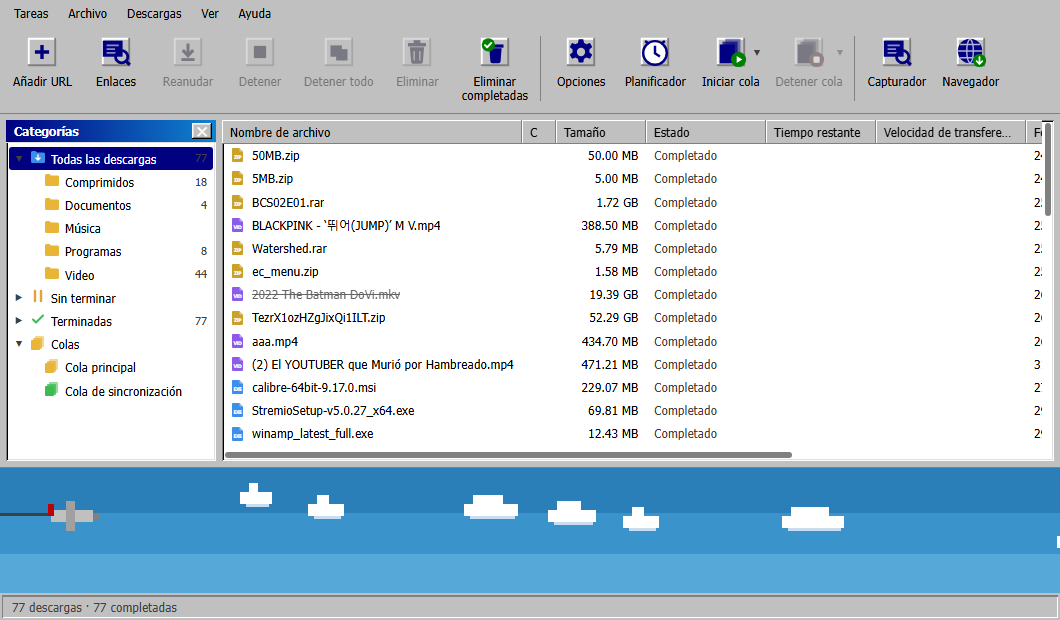
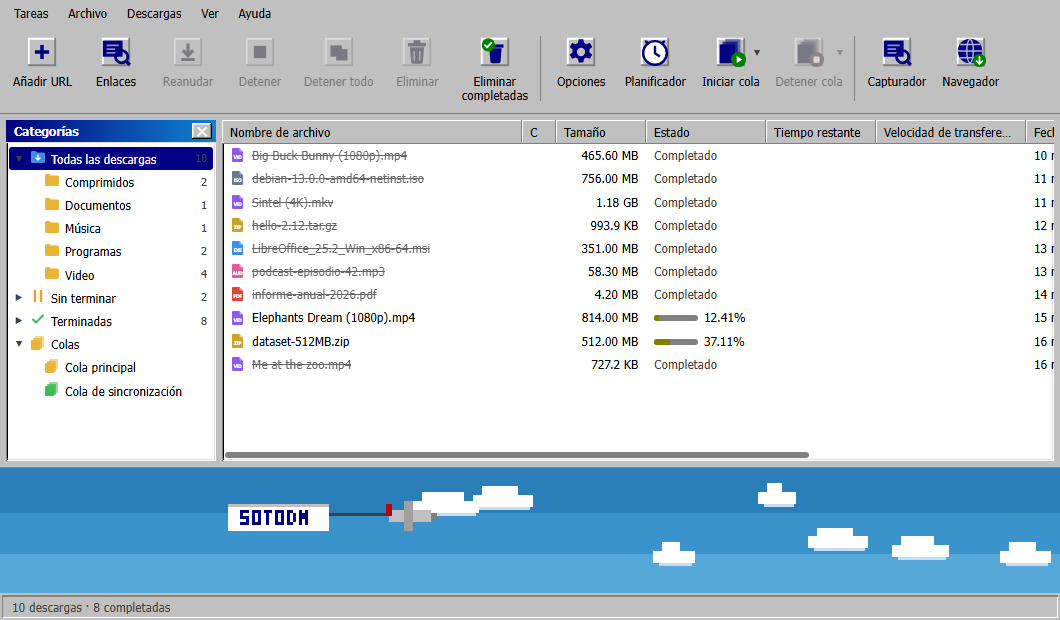
SotoDM 0.8.0: nuevo nombre en toda la vitrina, novedades e imágenes nuevas
- VeloxDM pasa a llamarse SotoDM en el texto, el banner y las capturas.
- Novedades de las versiones 0.8.0 (MEGA con carpetas, megaup.net, abrir en el
  navegador, claves cifradas) y 0.7.0 (debrid, reglas, estadísticas, ventana flotante,
  modo portable y gamer).
- Capturas rehechas con una lista de demostración (archivos públicos de prueba).

diff --git a/README.md b/README.md
@@ -1,15 +1,15 @@
-<p align="center"><img src="images/banner.png" alt="VeloxDM" width="100%"></p>
+<p align="center"><img src="images/banner.png" alt="SotoDM" width="100%"></p>
 
 <p align="center">Gestor de descargas con segmentación dinámica, colas, planificador, video, BitTorrent y extensión de navegador.</p>
 
-<p align="center"><a href="https://github.com/Softsoto/VeloxDM/releases/latest"><b>Descargar</b></a> · <a href="https://sotomontes.com/#veloxdm">Ver en sotomontes.com</a> · <a href="#cómo-se-usa">Cómo se usa</a> · <a href="#temas">Temas</a> · <a href="#cómo-funciona-por-dentro">Cómo funciona</a> · <a href="#novedades">Novedades</a></p>
+<p align="center"><a href="https://github.com/Softsoto/SotoDM/releases/latest"><b>Descargar</b></a> · <a href="https://sotomontes.com/#veloxdm">Ver en sotomontes.com</a> · <a href="#cómo-se-usa">Cómo se usa</a> · <a href="#temas">Temas</a> · <a href="#cómo-funciona-por-dentro">Cómo funciona</a> · <a href="#novedades">Novedades</a></p>
 
 | Ficha técnica | |
 |---|---|
 | **Autor** | Sebastian Sotomontes |
 | **Tipo** | Gestor de descargas |
 | **Plataforma** | Windows 10 y 11 (64 bits) |
-| **Versión** | 0.6.0 |
+| **Versión** | 0.8.0 |
 | **Estado** | Funcional |
 | **Stack** | C# · .NET 10 · WebView2 |
 | **Precio** | Gratis |
@@ -19,21 +19,36 @@
 
 ## Qué es
 
-VeloxDM es un gestor de descargas para Windows pensado para bajar archivos grandes sin perder el progreso. Divide cada descarga en varias conexiones que trabajan en paralelo y, cuando una termina, ayuda a la más lenta para que el total baje lo más rápido posible. Reanuda después de un corte de internet, un reinicio o un apagón, sin empezar de cero.
+SotoDM es un gestor de descargas para Windows pensado para bajar archivos grandes sin perder el progreso. Divide cada descarga en varias conexiones que trabajan en paralelo y, cuando una termina, ayuda a la más lenta para que el total baje lo más rápido posible. Reanuda después de un corte de internet, un reinicio o un apagón, sin empezar de cero.
 
 Además de archivos normales por **HTTP, HTTPS y FTP**, baja **vídeo** de YouTube y más de mil sitios (con la calidad que elijas), **torrents**, y **paquetes de enlaces** de sitios de alojamiento. Se integra con tu navegador mediante una extensión, así que las descargas se capturan solas —con su sesión, cookies y referer— sin que tengas que copiar nada a mano.
 
-<p align="center"><img src="images/captura.jpg" alt="Captura de VeloxDM" width="100%"></p>
+<p align="center"><img src="images/captura.jpg" alt="Captura de SotoDM" width="100%"></p>
 
 ## Novedades
 
+**Versión 0.8.0**
+
+- **MEGA completo**: archivos y **carpetas** públicas (cada subcarpeta entra como su propio paquete), descarga que se **reanuda** tras un corte y **comprobación de integridad** antes de guardar el archivo.
+- **megaup.net**: lee carpetas y subcarpetas con sus nombres y tamaños reales, y respeta la espera del sitio antes de descargar.
+- **Abrir en el navegador** desde el capturador de enlaces (clic derecho), también para varios enlaces a la vez.
+- **Claves y contraseñas cifradas** con la protección de Windows: cuenta debrid, inicios de sesión de sitios y proxy.
+- Si un sitio solo deja ver un vídeo en su reproductor, SotoDM lo dice con claridad en lugar de reintentar sin fin.
+
+**Versión 0.7.0**
+
+- **Nuevo nombre: SotoDM.** Al actualizar, tus descargas, ajustes y temas se trasladan solos.
+- **Servicios debrid** (Real-Debrid y AllDebrid): con tu cuenta, los enlaces de sitios de alojamiento se desbloquean sin esperas ni captchas.
+- **Reglas de automatización**: cuando una descarga termina, la mueve, la renombra, la descomprime, abre un programa o te avisa, según el sitio, el tipo o el tamaño.
+- **Panel de estadísticas** con lo descargado hoy, en el mes, en los últimos 14 días, por sitio y por categoría.
+- **Ventana flotante «Soltar aquí»**, **modo portable** (desde una USB, sin instalar) y **modo gamer**, que baja la velocidad mientras juegas o ves algo a pantalla completa.
+- Los temas se pueden **exportar e importar** como un archivo para compartirlos.
+
 **Versión 0.6.0**
 
-- **Diez temas visuales**, cada uno con sus colores, sus iconos de barra y una escena animada en la franja inferior: Clásico, Rock, Años 90, Retro, Synthwave, Sakura, Cyberpunk y tres estilos Rejilla (azul, ámbar y violeta). Los tienes todos más abajo, en [Temas](#temas).
-- **Creador de temas**: un editor para hacer el tuyo propio —paleta de colores, tipo de letra, tus propias imágenes como iconos y una imagen o escena de fondo— con vista previa en vivo.
-- **MediaFire**: ahora recorre las subcarpetas; cada una entra como su propio paquete.
-- Los enlaces de carpeta y las direcciones escritas sin `https://` se reconocen y abren el capturador de enlaces.
-- **Guía de la extensión** del navegador al terminar de instalar (Edge, Chrome y Brave).
+- **Diez temas visuales**, cada uno con sus colores, sus iconos de barra y una escena animada en la franja inferior. Los tienes todos más abajo, en [Temas](#temas).
+- **Creador de temas** con vista previa en vivo: paleta, letra, tus propias imágenes como iconos y una imagen o escena de fondo.
+- **MediaFire** recorre las subcarpetas, y las direcciones escritas sin `https://` se reconocen.
 
 **Antes**
 
@@ -44,7 +59,7 @@ Además de archivos normales por **HTTP, HTTPS y FTP**, baja **vídeo** de YouTu
 
 ## Cómo se usa
 
-1. Instala VeloxDM y añade la extensión a tu navegador. Desde ese momento las descargas se capturan solas, con su sesión, cookies y referer.
+1. Instala SotoDM y añade la extensión a tu navegador. Desde ese momento las descargas se capturan solas, con su sesión, cookies y referer.
 2. Para bajar algo a mano, pulsa **Añadir URL**, pega el enlace y elige carpeta y categoría. En los vídeos eliges también la calidad.
 3. Sigue el avance en la ventana principal. Al abrir una descarga ves cómo progresa cada conexión y puedes pausarla o cambiar su velocidad.
 4. Agrupa las descargas en **colas** y abre el **planificador** para decidir qué días y a qué horas corren, y qué hacer al terminar.
@@ -61,7 +76,7 @@ Además de archivos normales por **HTTP, HTTPS y FTP**, baja **vídeo** de YouTu
 
 ## Temas
 
-VeloxDM trae diez estilos. Cada uno no solo cambia los colores: también cambia los **iconos de la barra de herramientas** y añade una **escena animada en pixel art** en la parte de abajo de la ventana. El estilo claro u oscuro de Windows se sigue respetando salvo donde el tema fija sus propios colores. Se eligen en **Opciones → Apariencia → Estilo**.
+SotoDM trae diez estilos. Cada uno no solo cambia los colores: también cambia los **iconos de la barra de herramientas** y añade una **escena animada en pixel art** en la parte de abajo de la ventana. El estilo claro u oscuro de Windows se sigue respetando salvo donde el tema fija sus propios colores. Se eligen en **Opciones → Apariencia → Estilo**.
 
 <table>
 <tr>
@@ -109,7 +124,7 @@ VeloxDM trae diez estilos. Cada uno no solo cambia los colores: también cambia 
 - Reanuda tras cortes de internet, reinicios o apagones.
 - Hasta 32 conexiones por archivo con segmentación dinámica.
 - Los archivos por partes se descomprimen solos al terminar, probando tu lista de contraseñas.
-- Si un sitio pide una verificación, VeloxDM abre la página para que la resuelvas tú; nada se salta.
+- Si un sitio pide una verificación, SotoDM abre la página para que la resuelvas tú; nada se salta.
 - La apariencia es tuya: diez temas de serie y un creador para diseñar los que quieras, sin tocar código.
 - Línea de comandos para usarlo desde scripts.
 
@@ -121,7 +136,7 @@ VeloxDM trae diez estilos. Cada uno no solo cambia los colores: también cambia 
 flowchart LR
   EXT["Extensión MV3<br/>Chrome · Edge · Brave"] -->|"native messaging"| NH["NativeHost"]
   NH -->|"tubería con nombre"| APP
-  subgraph APP["VeloxDM.exe"]
+  subgraph APP["SotoDM.exe"]
     UI["Ventanas WinForms + WebView2<br/>www/"] <--> DM["DownloadManager<br/>colas · planificador · límites"]
     DM --> HTTP["Downloader<br/>HTTP/HTTPS segmentado"]
     DM --> FTP["FtpDownloader"]
@@ -136,22 +151,22 @@ flowchart LR
 
 | Ruta | Contenido |
 |---|---|
-| `src/VeloxDM/Core/Downloader.cs` | Motor HTTP(S): segmentación dinámica, archivo temporal disperso, reanudación |
-| `src/VeloxDM/Core/FtpDownloader.cs` | FTP con la misma segmentación (REST) |
-| `src/VeloxDM/Core/HlsDownloader.cs` | HLS: variantes, segmentos en paralelo, AES-128, remux a MP4 |
-| `src/VeloxDM/Core/YtDlp.cs` | Motor yt-dlp (sondeo de calidades, progreso, unión con ffmpeg) |
-| `src/VeloxDM/Core/TorrentDownloader.cs` | BitTorrent (MonoTorrent), límites compartidos con el resto |
-| `src/VeloxDM/Core/DownloadManager.cs` | Lista, colas, planificador, velocidad, acciones al terminar |
-| `src/VeloxDM/Core/SiteGrabber.cs` | Capturador de sitios |
-| `src/VeloxDM/Core/RemoteServer.cs` | Control remoto HTTP en la red local |
-| `src/VeloxDM/Core/LinkGrabber.cs` | Capturador de enlaces: análisis de texto y páginas, comprobación, paquetes |
-| `src/VeloxDM/Core/Hosters.cs`, `FilePlatforms.cs` | Complementos de sitios y motores de plataformas compartidas |
-| `src/VeloxDM/Core/Packages.cs` | Fin de paquete: descompresión, contraseñas y aviso |
-| `src/VeloxDM/Core/Themes.cs` | Temas de usuario: paleta, iconos y fondo propios |
-| `src/VeloxDM/Core/ClickNLoad.cs` | Receptor Click'n'Load |
-| `src/VeloxDM/Core/NativeHost.cs`, `Ipc.cs` | Host de native messaging y tubería con la app |
-| `src/VeloxDM/Ui/`, `src/VeloxDM/www/` | Ventanas WinForms + WebView2 y su interfaz HTML/JS (temas, iconos y escenas incluidos) |
-| `installer/VeloxDM.iss` | Instalador Inno Setup (por usuario, sin administrador) |
+| `src/SotoDM/Core/Downloader.cs` | Motor HTTP(S): segmentación dinámica, archivo temporal disperso, reanudación |
+| `src/SotoDM/Core/FtpDownloader.cs` | FTP con la misma segmentación (REST) |
+| `src/SotoDM/Core/HlsDownloader.cs` | HLS: variantes, segmentos en paralelo, AES-128, remux a MP4 |
+| `src/SotoDM/Core/YtDlp.cs` | Motor yt-dlp (sondeo de calidades, progreso, unión con ffmpeg) |
+| `src/SotoDM/Core/TorrentDownloader.cs` | BitTorrent (MonoTorrent), límites compartidos con el resto |
+| `src/SotoDM/Core/DownloadManager.cs` | Lista, colas, planificador, velocidad, acciones al terminar |
+| `src/SotoDM/Core/SiteGrabber.cs` | Capturador de sitios |
+| `src/SotoDM/Core/RemoteServer.cs` | Control remoto HTTP en la red local |
+| `src/SotoDM/Core/LinkGrabber.cs` | Capturador de enlaces: análisis de texto y páginas, comprobación, paquetes |
+| `src/SotoDM/Core/Hosters.cs`, `FilePlatforms.cs` | Complementos de sitios y motores de plataformas compartidas |
+| `src/SotoDM/Core/Packages.cs` | Fin de paquete: descompresión, contraseñas y aviso |
+| `src/SotoDM/Core/Themes.cs` | Temas de usuario: paleta, iconos y fondo propios |
+| `src/SotoDM/Core/ClickNLoad.cs` | Receptor Click'n'Load |
+| `src/SotoDM/Core/NativeHost.cs`, `Ipc.cs` | Host de native messaging y tubería con la app |
+| `src/SotoDM/Ui/`, `src/SotoDM/www/` | Ventanas WinForms + WebView2 y su interfaz HTML/JS (temas, iconos y escenas incluidos) |
+| `installer/SotoDM.iss` | Instalador Inno Setup (por usuario, sin administrador) |
 
 ### Cómo captura el navegador
 
